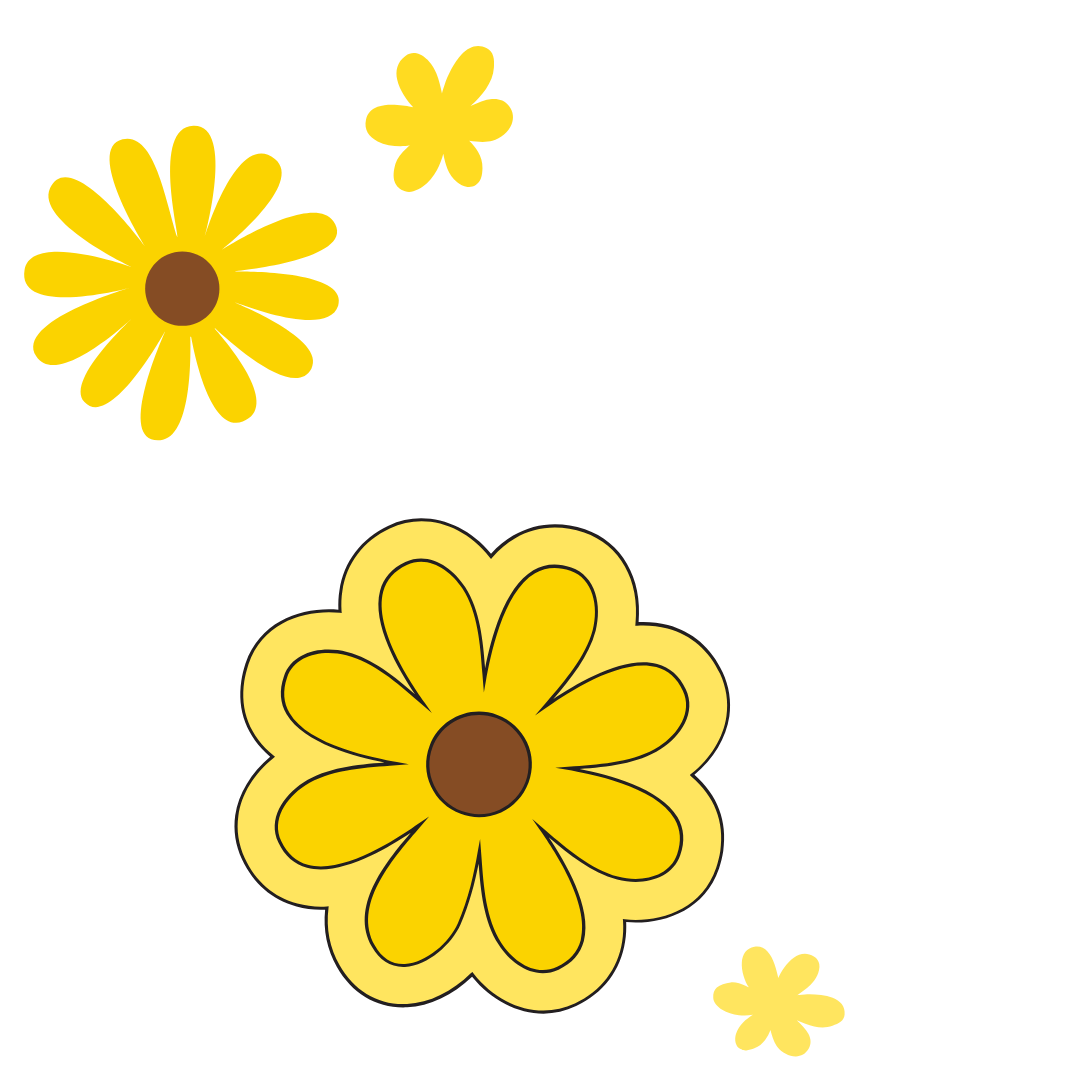
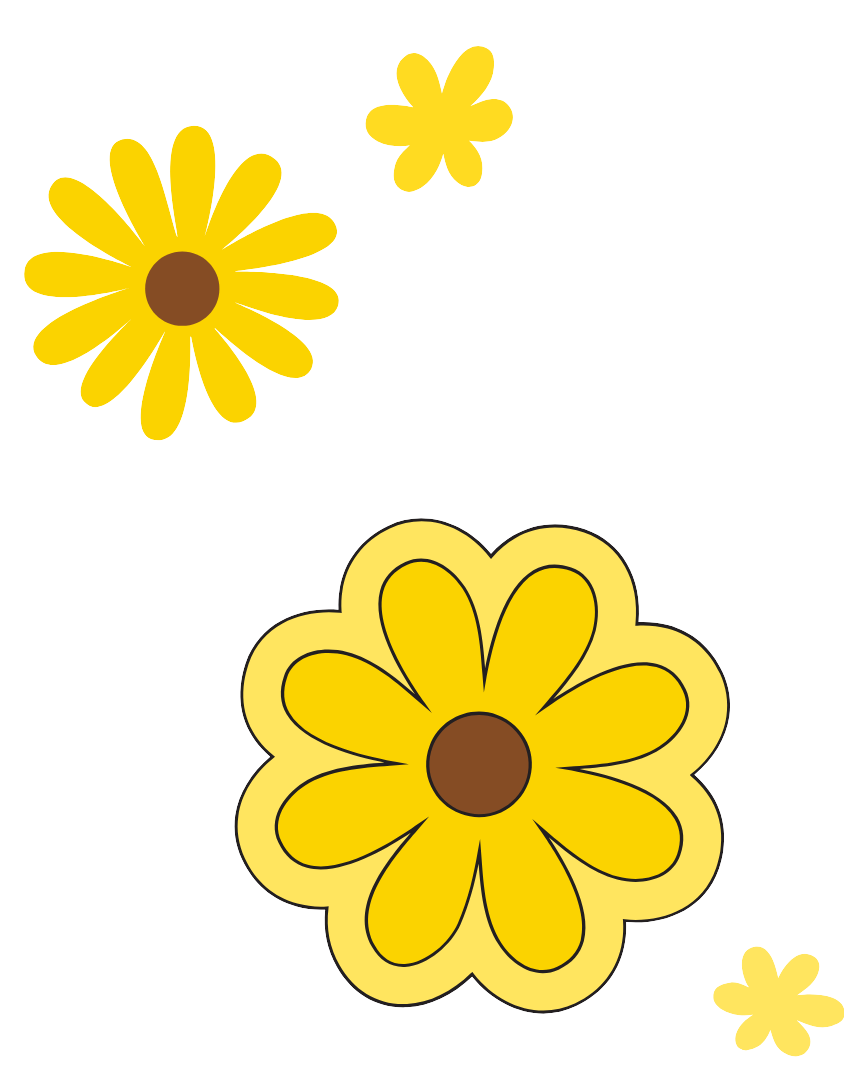
finalização da aba do artigo
99%

Changed region(s): [[0.2156, 0.4583, 0.8626, 0.9778], [0.0, 0.0306, 0.6161, 0.4278], [0.8318, 0.8556, 1.0, 0.9778]]

diff --git a/artigo.html b/artigo.html
@@ -6,6 +6,7 @@
     <title>Artigo</title>
     <link rel="stylesheet" href="estilos/navbar.css">
     <link rel="stylesheet" href="estilos/artigo.css">
+    <link rel="stylesheet" href="https://fonts.googleapis.com/icon?family=Material+Icons">
 </head>
 <body>
     <div class="topo">
@@ -32,5 +33,32 @@
 
         <img src="imagens/onda-amarela.png" alt="onda" id="onda-amarela">
     </section>
+
+    <section class="nosso-artigo">
+        <div class="textos">
+            <h2 class="nome-artigo">O TRANSTORNO DE ANSIEDADE GENERALIZADA (TAG): COMO AFETA OS ESTUDANTES DA ETEC DE TABOÃO DA SERRA</h2>
+            <ul class="palavras-chave">
+                <li>Ansiedade</li>
+                <li>Estudantes</li>
+                <li>Ensino Médio</li>
+                <li>TAG</li>
+                <li>ETEC de Taboão da Serra</li>
+            </ul>
+            <p class="resumo">O estudo investiga as causas do Transtorno de Ansiedade Generalizada (TAG) entre jovens do ensino médio da ETEC de Taboão da Serra, através de coleta de dados e revisão bibliográfica. As principais causas identificadas incluem pressão escolar, autocobrança, sobrecarga acadêmica e incertezas sobre o futuro, com a ansiedade aumentando a cada série, especialmente no 3º ano. Conclui-se que é fundamental implementar suporte para alunos com ansiedade e desenvolver prevenções. Para pesquisas futuras, sugere-se buscar intervenções que ofereçam apoio e descontrações na vida acadêmica.</p>
+            <p id="autoras">Autores: ANDRADE, Ana., RODRIGUES, Ana., ARAÚJO, Bárbara., SILVA, Beatriz., ASSUNÇÃO, Caroline., SANTOS, Emanuelly.</p>
+        </div>
+        <div class="ver-artigo">
+            <img src="imagens/capa-artigo.png" class="capa-artigo">
+            <i class="material-icons" id="full" title="Visualizar artigo" onclick="abrirArtigo()">fullscreen</i>
+        </div>
+    </section>
+
+    <section></section>
+
+    <script>
+        function abrirArtigo(){
+            window.location.href = "visu-artigo.html"
+        }
+    </script>
 </body>
 </html>

diff --git a/estilos/artigo.css b/estilos/artigo.css
@@ -2,14 +2,14 @@
 
 @import url('https://fonts.googleapis.com/css2?family=Katibeh&family=Montserrat:ital,wght@0,100..900;1,100..900&family=Open+Sans:ital,wght@0,300..800;1,300..800&display=swap');
 
-*{
+* {
     margin: 0;
     padding: 0;
     box-sizing: border-box;
     font-family: "Open Sans", sans-serif;
 }
 
-.header{
+.header {
     width: 100vw;
     height: 264px;
     text-align: center;
@@ -25,26 +25,97 @@
     line-height: 1.5em;
 }
 
-#flores1-artigo, #flores2-artigo{
+#flores1-artigo,
+#flores2-artigo {
     position: absolute;
 }
 
-#flores1-artigo{
-    width: 327px;
-    left: 19px;
-    top: 50px;
+#flores1-artigo {
+    width: 241px;
+    left: 28px;
+    top: 38px;
 }
 
-#flores2-artigo{
-    width: 330px;
-    right: -81px;
-    top: 26px;
+#flores2-artigo {
+    width: 216px;
+    right: 30px;
+    top: 12px;
 }
 
 
-#onda-amarela{
+#onda-amarela {
     width: 100%;
     top: 43px;
     position: absolute;
     z-index: -1;
+}
+
+/*---------------nosso artigo----------*/
+
+.nosso-artigo {
+    margin: auto;
+    margin-top: 165px;
+    width: 853px;
+    display: flex;
+    margin-bottom: 30px;
+}
+
+.textos{
+    width: 500px;
+}
+
+.nome-artigo{
+    font-size: 20px;
+}
+
+.palavras-chave{
+    display: flex;
+    justify-content: space-between;
+    list-style: none;
+    flex-wrap: wrap;
+}
+
+.palavras-chave > li {
+    padding: 8px 15px;
+    border-radius: 50px;
+    background-color: #d6ffd4;
+    margin-top: 11px;
+}
+
+.resumo{
+    text-align: justify;
+    margin-top: 11px;
+}
+
+#autoras{
+    width: 901px;
+    font-size: 13px;
+    margin-top: 10px;
+    color: #8a8787;
+}
+
+.ver-artigo{
+    position: relative;
+}
+
+.capa-artigo{
+    height: 402px;
+    margin-left: 33px;
+    box-shadow: 0px 0px 9px 3px rgba(0, 0, 0, 0.27);
+}
+
+#full{
+    position: absolute;
+    left: 35px;
+    bottom: 33px;
+    font-size: 33px;
+    color: gray;
+    z-index: 2;
+    cursor: pointer;
+}
+
+#full:hover{
+    transform: scale(1.2);
+    transition: 0.5s;
+    cursor: pointer;
 }

diff --git a/visu-artigo.html b/visu-artigo.html
@@ -11,6 +11,8 @@
             padding: 0;
             display: flex;
             justify-content: space-between;
+
+            overflow-y: hidden;
         }
 
         .artigo{
@@ -48,9 +50,21 @@
         #abrir:hover, #fechar:hover{
             cursor: pointer;
         }
+
+        #voltar{
+            margin: 17px 10px 10px 17px;
+            cursor: pointer;
+            height: 20px;
+        }
+
+        #voltar:hover{
+            transform: scale(1.09);
+            transition: 0.3s;
+        }
     </style>
 </head>
 <body>
+    <i class="material-icons" id="voltar" onclick="voltar()">arrow_back_ios</i>
     <div class="artigo">
          <iframe src="https://drive.google.com/file/d/1VxooslaRpShpBWxcKHp6yaU0EfOqchOx/preview" frameborder="0"></iframe>
     </div>
@@ -72,7 +86,7 @@
 
     <script>
         function carregarInfo(){
-            document.getElementById('aba-infos').innerHTML = "<iframe src='aba-lateral.html' frameborder='0' id='aba-direita'></iframe>"
+            document.getElementById('aba-infos').innerHTML = "<iframe src='aba-artigo.html' frameborder='0' id='aba-direita'></iframe>"
 
             document.getElementById('aba-direita').style.width = "25vw"
             document.getElementById('aba-direita').style.height = "100vh"
@@ -87,9 +101,10 @@
             document.getElementById("artigo").style.width = "75%";
 
             document.getElementById("aba-direita").style.display = "none";
+        }
 
-            
-
+        function voltar(){
+            window.location.href = "artigo.html"
         }
     </script>
 </body>

diff --git a/aba-artigo.html b/aba-artigo.html
@@ -69,7 +69,7 @@
         <p id="resumo">O estudo tem como objetivo identificar as causas do Transtorno de Ansiedade Generalizada (TAG) nos jovens do ensino médio da ETEC de Taboão da Serra, por meio da coleta e análise de dados com os estudantes, além de uma revisão bibliográfica. Os resultados indicam que a pressão escolar, autocobrança, sobrecarga acadêmica e incertezas sobre o futuro são os principais fatores que desencadeiam o TAG. A ansiedade aumenta a cada série, sendo mais intensa no 3º ano, devido ao acúmulo de problemas ao longo do ensino médio. O estudo sugere a implementação de apoio psicológico e a redução da carga de trabalho escolar, além de momentos de descontração. Recomenda-se também aprofundar pesquisas sobre intervenções para apoiar os alunos na escola.</p>
         <div class="infos">
             <p>Data: 22/11/2024</p>
-            <p>Autores: ANDRADE, Ana. RODRIGUES, Ana. ARAÚJO, Bárbara. SILVA, Beatriz. FANTINATE, Caroline. SANTOS, Emanuelly.</p>
+            <p>Autores: ANDRADE, Ana. RODRIGUES, Ana. ARAÚJO, Bárbara. SILVA, Beatriz. ASSUNÇÃO, Caroline. SANTOS, Emanuelly.</p>
         </div>
     </div>
 

diff --git a/atendimento.html b/atendimento.html
@@ -18,9 +18,9 @@
             <a href="home.html" class="nav">Home</a>
             <a href="transtornos.html" class="nav">Transtornos</a>
             <a href="planos.html" class="nav">Planos</a>
-            <a href="atendimento.html" id="atual">Atendimento</a>
-            <a href="#" class="nav">Produtos</a>
-            <a href="#" class="nav">Artigo</a>
+            <a href="#" id="atual">Atendimento</a>
+            <a href="produtos.html" class="nav">Produtos</a>
+            <a href="artigo.html" class="nav">Artigo</a>
         </nav>
     </header>
 

diff --git a/produtos.html b/produtos.html
@@ -20,7 +20,7 @@
             <a href="planos.html" class="nav">Planos</a>
             <a href="atendimento.html" class="nav">Atendimento</a>
             <a href="#" id = "atual">Produtos</a>
-            <a href="#" class="nav">Artigo</a>
+            <a href="artigo.html" class="nav">Artigo</a>
         </nav>
     </header>
     <div class="par1"><p>Buscando levar os cuidados e atenção do SUN para a sua casa, <br> disponibilizamos produtos personalizados para ampliar suas <br> capacidades de autoconhecimento e autocuidado.

diff --git a/transtornos.html b/transtornos.html
@@ -22,8 +22,8 @@
             <a href="#" id="atual">Transtornos</a>
             <a href="planos.html" class="nav">Planos</a>
             <a href="atendimento.html" class="nav">Atendimento</a>
-            <a href="" class="nav">Produtos</a>
-            <a href="#" class="nav">Artigo</a>
+            <a href="produtos.html" class="nav">Produtos</a>
+            <a href="artigo.html" class="nav">Artigo</a>
         </nav>
     </header>
 

diff --git a/pop-ups/popup-bloom.html b/pop-ups/popup-bloom.html
@@ -28,7 +28,7 @@
                 <a href="#" id="atual">Planos</a>
                 <a href="../atendimento.html" class="nav">Atendimento</a>
                 <a href="../produtos.html" class="nav">Produtos</a>
-                <a href="../artigos.html" class="nav">Artigo</a>
+                <a href="../artigo.html" class="nav">Artigo</a>
             </nav>
         </header>
 

diff --git a/pop-ups/popup-flora.html b/pop-ups/popup-flora.html
@@ -28,7 +28,7 @@
                 <a href="#" id="atual">Planos</a>
                 <a href="../atendimento.html" class="nav">Atendimento</a>
                 <a href="../produtos.html" class="nav">Produtos</a>
-                <a href="../artigos.html" class="nav">Artigo</a>
+                <a href="../artigo.html" class="nav">Artigo</a>
             </nav>
         </header>
 

diff --git a/pop-ups/popup-sun.html b/pop-ups/popup-sun.html
@@ -28,7 +28,7 @@
                 <a href="#" id="atual">Planos</a>
                 <a href="../atendimento.html" class="nav">Atendimento</a>
                 <a href="../produtos.html" class="nav">Produtos</a>
-                <a href="../artigos.html" class="nav">Artigo</a>
+                <a href="../artigo.html" class="nav">Artigo</a>
             </nav>
         </header>
 

diff --git a/home.html b/home.html
@@ -23,7 +23,7 @@
             <a href="planos.html" class="nav">Planos</a>
             <a href="atendimento.html" class="nav">Atendimento</a>
             <a href="produtos.html" class="nav">Produtos</a>
-            <a href="visu-artigo" class="nav">Artigo</a>
+            <a href="artigo.html" class="nav">Artigo</a>
         </nav>
     </header>
     <main>

diff --git a/planos.html b/planos.html
@@ -22,7 +22,7 @@
             <a href="#" id="atual">Planos</a>
             <a href="atendimento.html" class="nav">Atendimento</a>
             <a href="produtos.html" class="nav">Produtos</a>
-            <a href="artigos.html" class="nav">Artigo</a>
+            <a href="artigo.html" class="nav">Artigo</a>
         </nav>
     </header>
 
